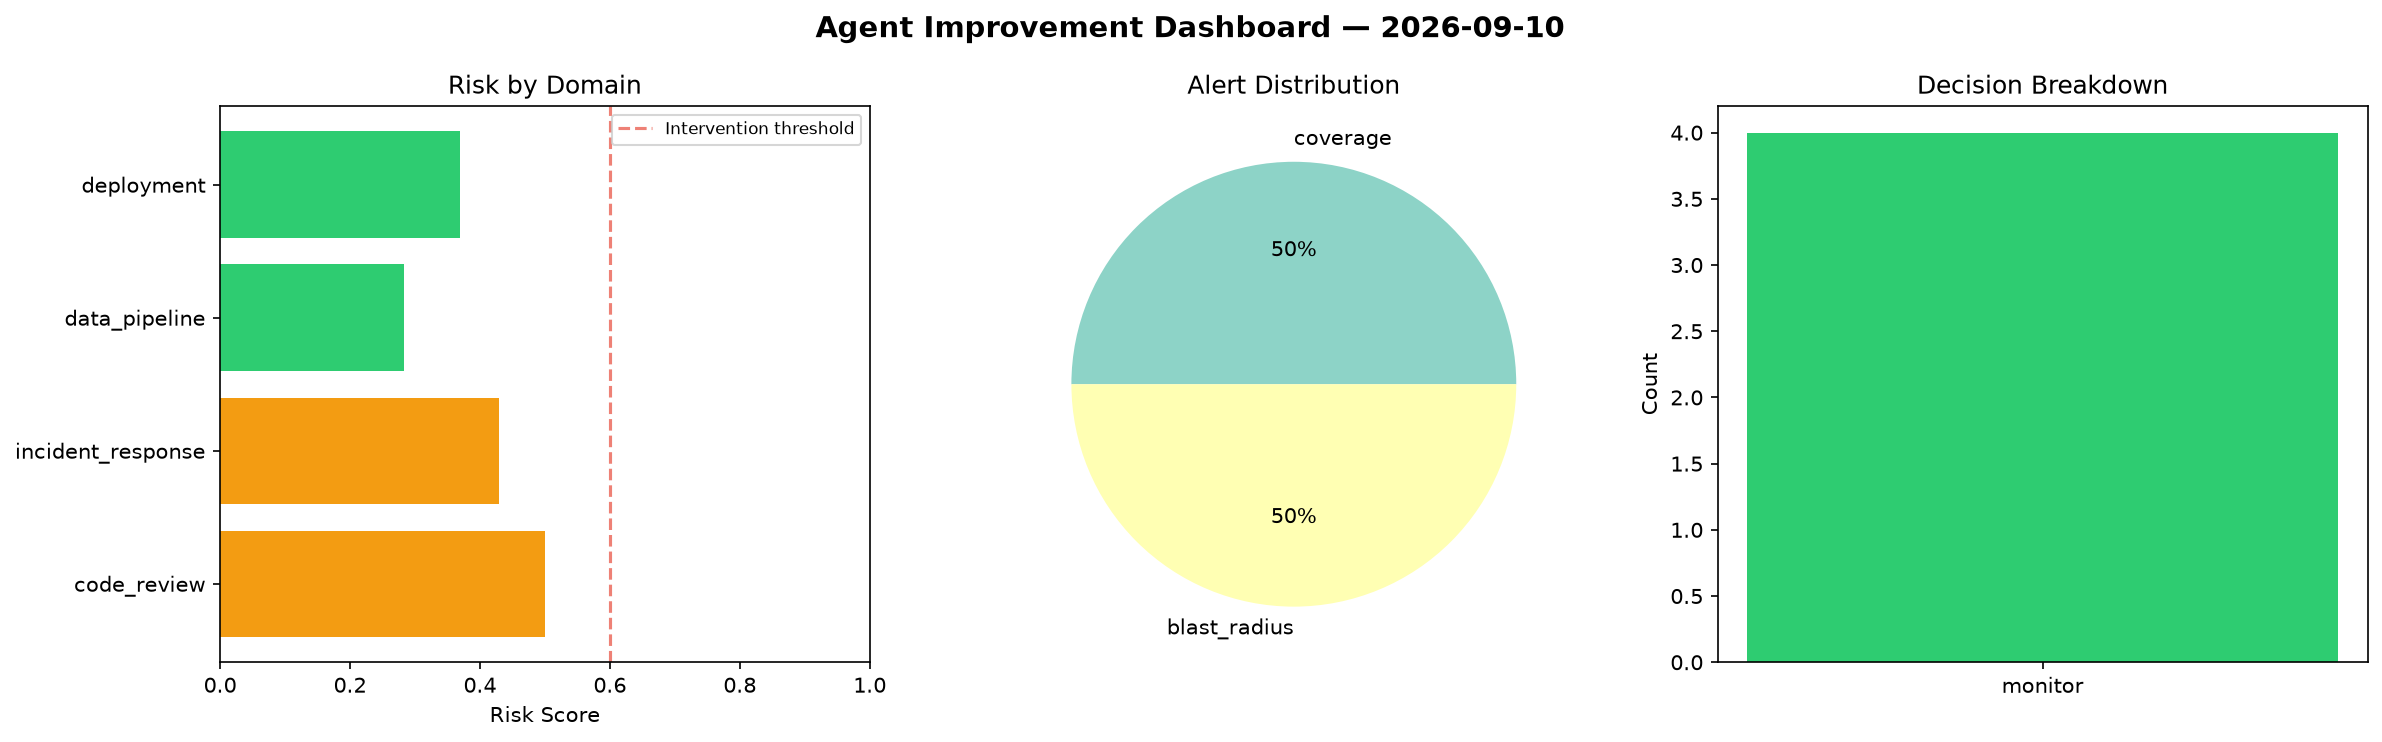
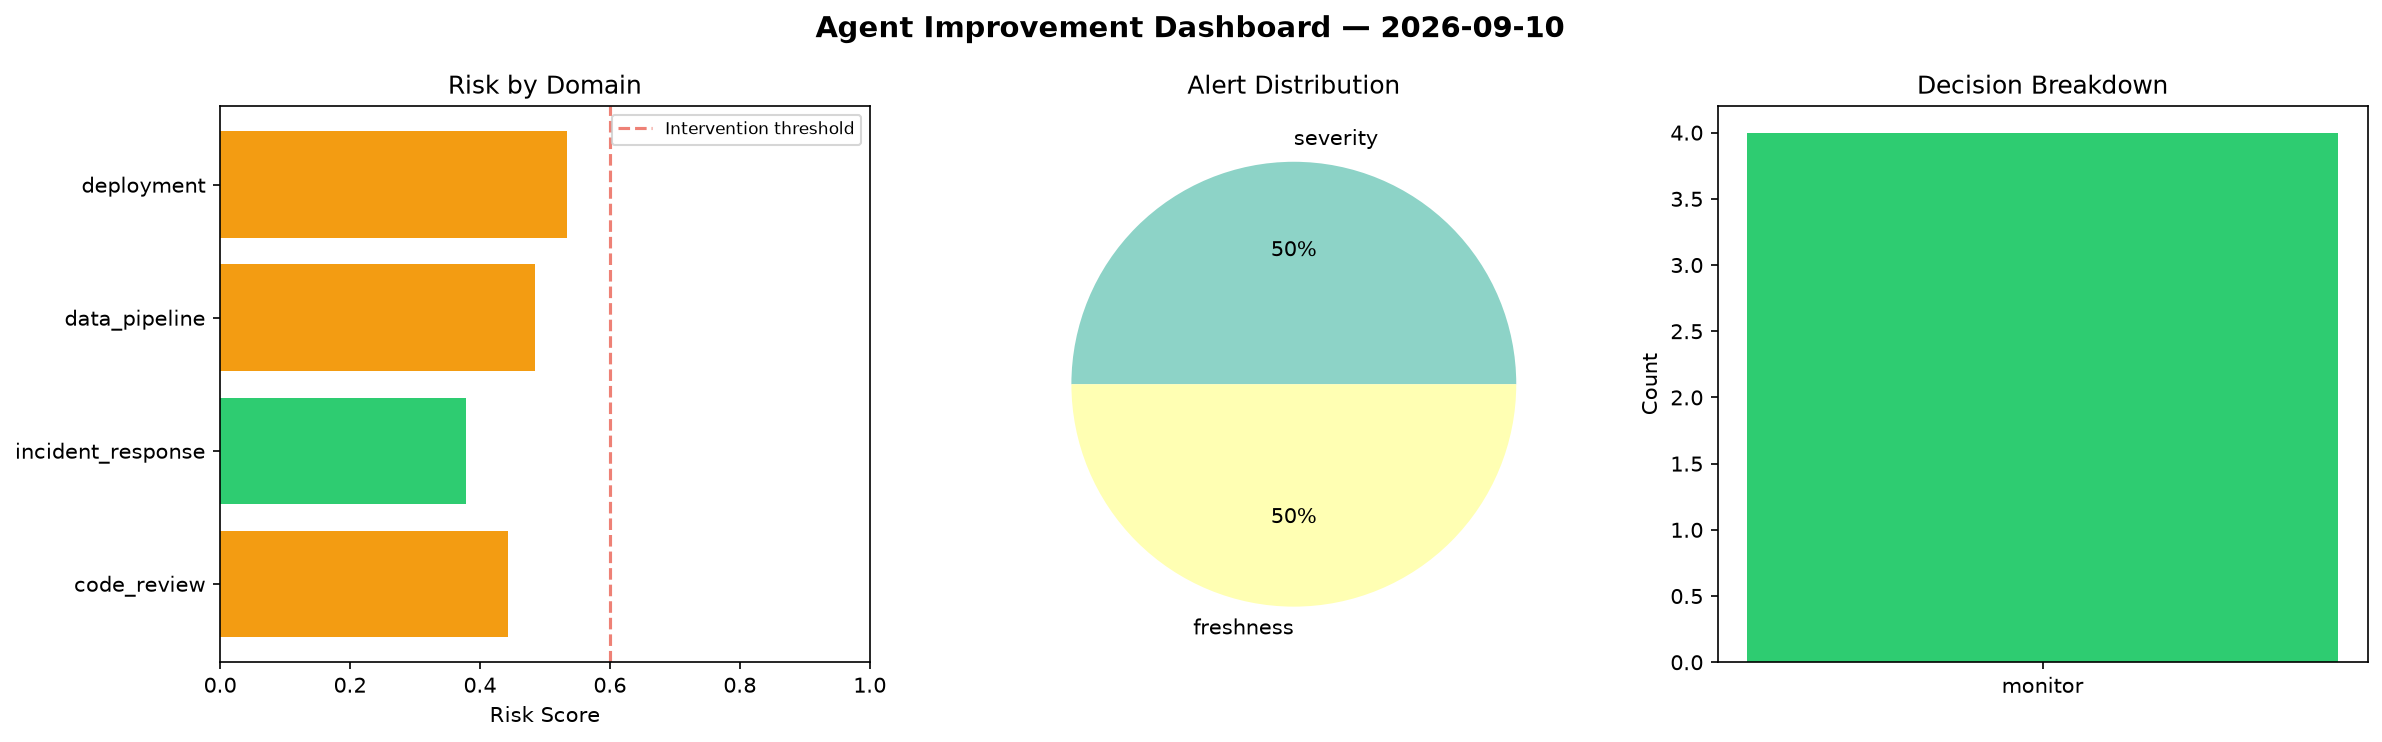
agent-improvement: daily cycle 2026-09-10T12:55

diff --git a/logs/2026-09-10.md b/logs/2026-09-10.md
@@ -1,6 +1,6 @@
 # Agent Improvement Report — 2026-09-10
 
-**Cycle ID:** `3967e59c` | **Avg Risk:** 0.3956 | **Interventions:** 0/4
+**Cycle ID:** `07c40f7d` | **Avg Risk:** 0.4602 | **Interventions:** 0/4
 
 ![Dashboard](2026-09-10_dashboard.png)
 
@@ -10,18 +10,18 @@
 
 | Domain | Risk Score | Decision | Alerts |
 |--------|-----------|----------|--------|
-| code_review | 0.5004 | monitor | coverage |
-| incident_response | 0.4286 | monitor | blast_radius |
-| data_pipeline | 0.2837 | monitor | none |
-| deployment | 0.3696 | monitor | none |
+| code_review | 0.4429 | monitor | none |
+| incident_response | 0.3791 | monitor | severity |
+| data_pipeline | 0.4846 | monitor | freshness |
+| deployment | 0.534 | monitor | none |
 
 ## Delta vs Yesterday
 
 | Domain | Today | Yesterday | Change |
 |--------|-------|-----------|--------|
-| code_review | 0.5004 | 0.71 | 📉 -29.5% |
-| incident_response | 0.4286 | 0.2181 | 📈 96.5% |
-| data_pipeline | 0.2837 | 0.6485 | 📉 -56.3% |
-| deployment | 0.3696 | 0.479 | 📉 -22.8% |
+| code_review | 0.4429 | 0.71 | 📉 -37.6% |
+| incident_response | 0.3791 | 0.2181 | 📈 73.8% |
+| data_pipeline | 0.4846 | 0.6485 | 📉 -25.3% |
+| deployment | 0.534 | 0.479 | 📈 11.5% |
 
-**Refinement:** `{'adjustment': 'maintain', 'trend': 'improving', 'window': 4}`
+**Refinement:** `{'adjustment': 'tighten_thresholds', 'trend': 'degrading', 'window': 4}`
